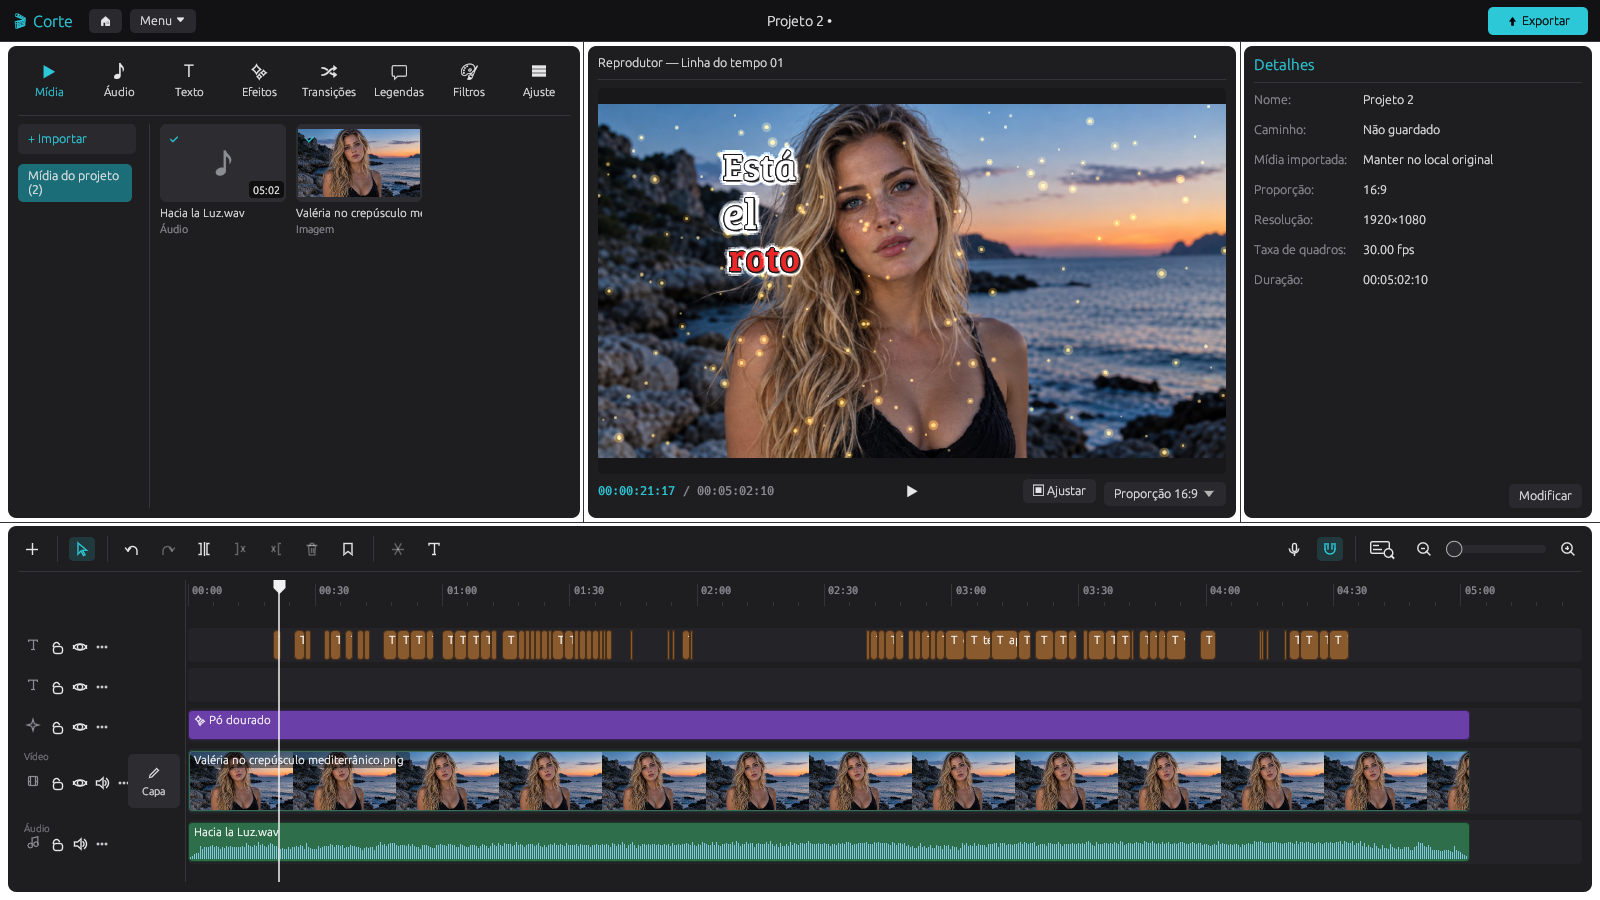
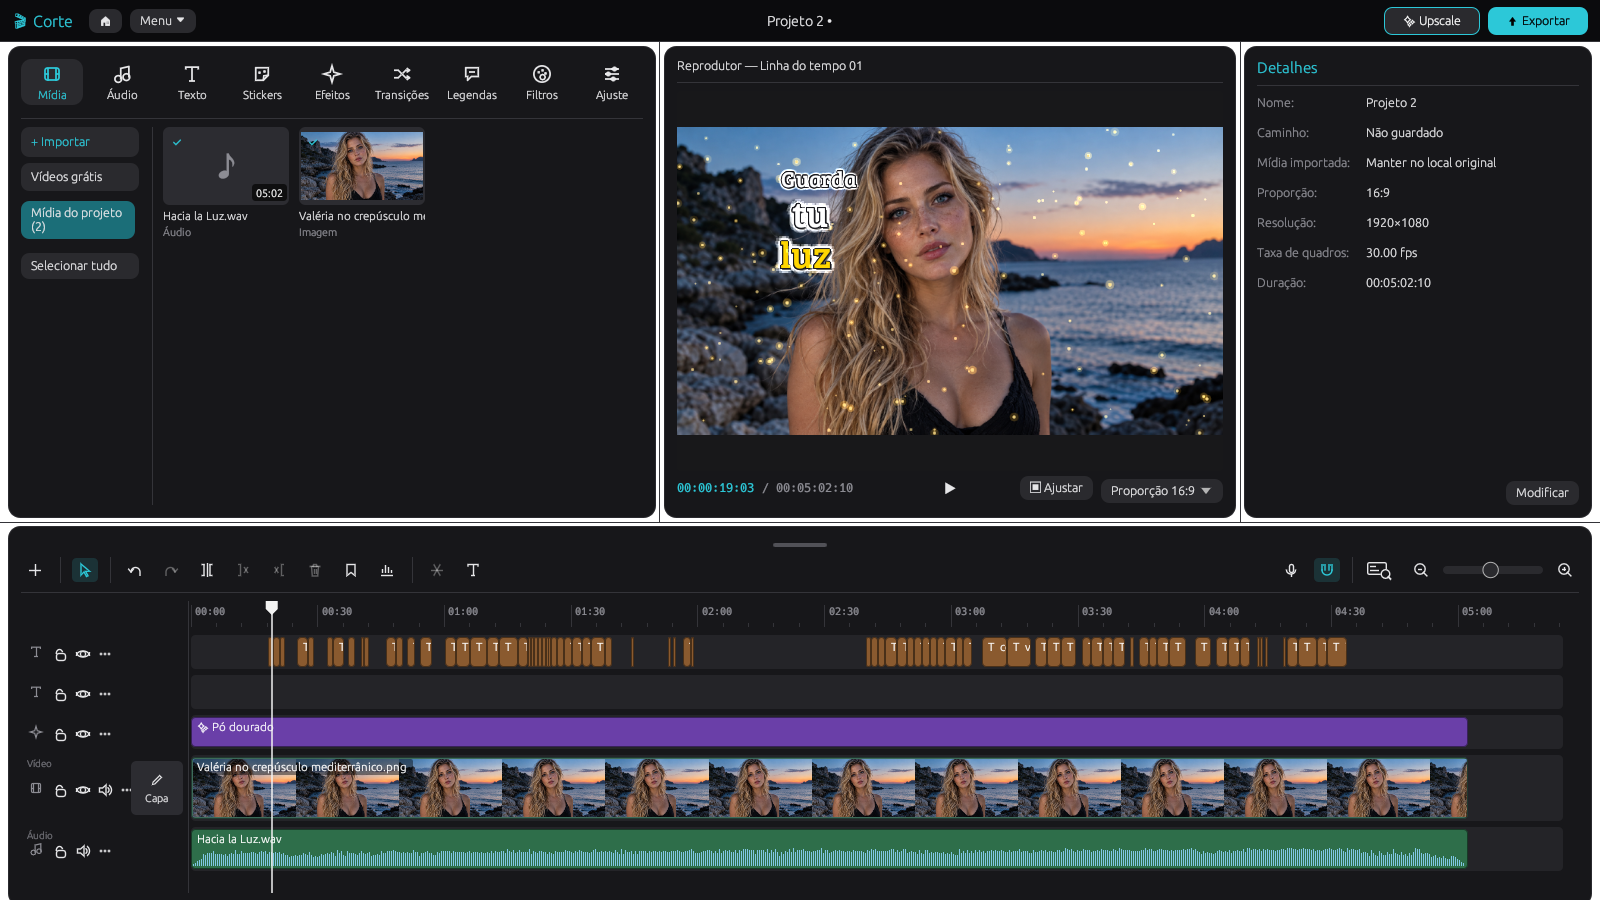
Site: captura do editor com a interface nova

diff --git a/index.html b/index.html
@@ -75,7 +75,7 @@
       <div class="ambient"></div>
       <p class="giant" aria-hidden="true">CORTE</p>
       <div class="floor"></div>
-      <div class="device"><img src="img/editor.png" alt="O editor do Corte: biblioteca, pré-visualização com legendas e linha do tempo" width="1600" height="900" fetchpriority="high"></div>
+      <div class="device"><img src="img/editor.png?v=35" alt="O editor do Corte: biblioteca, pré-visualização com legendas e linha do tempo" width="1600" height="900" fetchpriority="high"></div>
       <div class="copy bl">
         <h1 class="fx" data-i18n-html="hero.title">Feito para <span class="hl">cortar tudo</span>.</h1>
         <p data-i18n="hero.text">Editor de vídeo grátis para Windows, Mac e Linux: legendas automáticas, transições, stickers, sons de cinema e agentes de IA. Sem marcas de água, sem conta.</p>
@@ -198,7 +198,7 @@
       <div class="ambient"></div>
       <p class="giant" aria-hidden="true">CORTE</p>
       <div class="floor"></div>
-      <div class="device" style="width:min(44vw,700px)"><img src="img/editor.png" alt="" width="1600" height="900" loading="lazy"></div>
+      <div class="device" style="width:min(44vw,700px)"><img src="img/editor.png?v=35" alt="" width="1600" height="900" loading="lazy"></div>
       <div class="copy tl">
         <p class="num" id="dl-stat" data-from="0" data-to="0">—<small data-i18n="st.dl">downloads</small></p>
         <p class="num-label" data-i18n="final.label">do instalador, contados pelo GitHub em todas as versões.</p>
